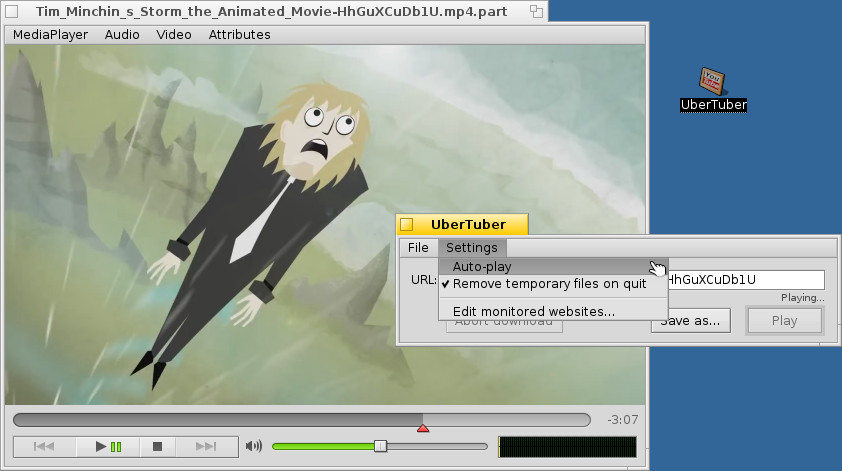
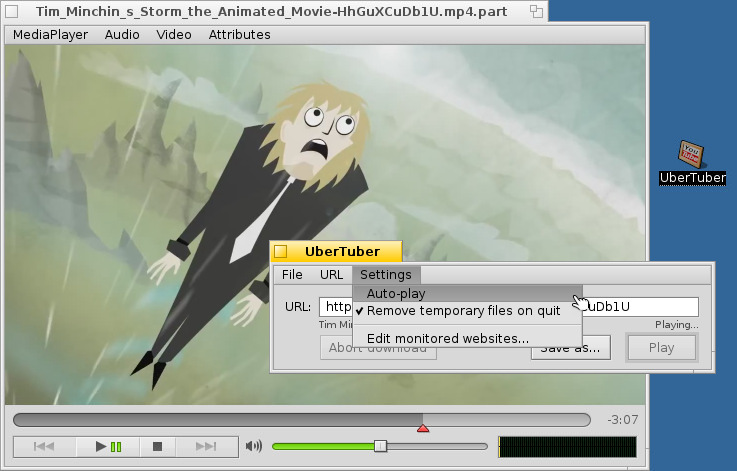
Updated ReadMe and screenshot.

diff --git a/ReadMe.html b/ReadMe.html
@@ -211,6 +211,8 @@ Still not perfect, I guess, but better...</li>
 <li>Simplified code a bit by avoiding youtube-dl creating .part files</li>
 <li>The clipboard monitored URLs are now stored in a node monitored settings file <tt>~/config/settings/UberTuber_monitored_sites</tt>.</li>
 <li>Added a menu item to edit the UberTuber_monitored_sites settings file in the text editor.</li>
+<li>Added a menu item to clear the text from the URL field.</li>
+<li>Added a menu item to open the current URL in the browser.</li>
 <li>Added a "Select this folder" button to the save panel.</li>
 <li>Accept dropped bookmark files (or any file with a META:url attribute).</li>
 <li>Register bookmark files as supported types of UberTuber, enabling opening "video" bookmarks of WebPositive with UberTuber.</li>
